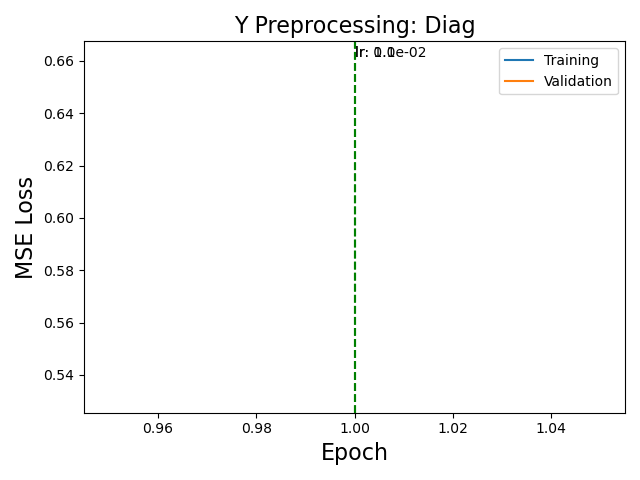
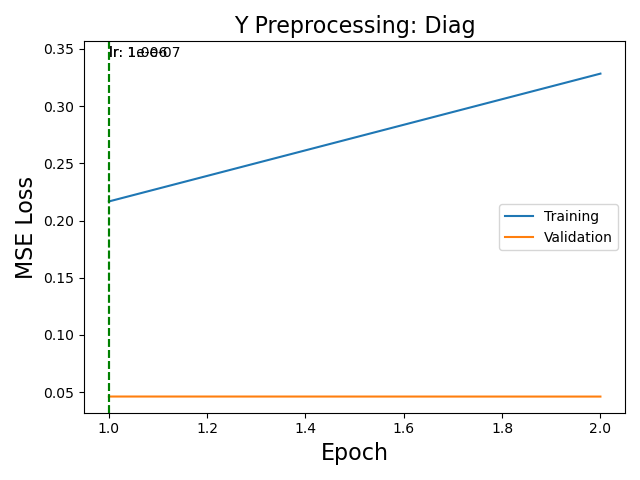
updates

diff --git a/neural_net_utils/core_test_train.py b/neural_net_utils/core_test_train.py
@@ -49,17 +49,22 @@ def core_test_train(model, opt):
             n_epochs = opt.n_epochs, start_epoch = opt.start_epoch, use_parallel = opt.use_parallel,
             scheduler = scheduler, save_mod = opt.save_mod, print_mod = opt.print_mod, verbose = opt.verbose)
 
+    tot_pars = 0
+    for k,p in model.named_parameters():
+        tot_pars += p.numel()
+    print('Total parameters: {}'.format(tot_pars))
     print('Total time: {}'.format(time.time() - t0))
-    print('Final val loss: {}'.format(val_loss_arr[-1]))
+    print('Final val loss: {}\n'.format(val_loss_arr[-1]))
 
-    imageSubPath = os.path.join('images', opt.ofile)
-    if not os.path.exists(imageSubPath):
-        os.mkdir(imageSubPath, mode = 0o755)
+    if opt.plot:
+        imageSubPath = os.path.join('images', opt.ofile)
+        if not os.path.exists(imageSubPath):
+            os.mkdir(imageSubPath, mode = 0o755)
 
-    imagePath = os.path.join(imageSubPath, 'train_val_loss.png')
-    plotModelFromArrays(train_loss_arr, val_loss_arr, imagePath, opt)
+        imagePath = os.path.join(imageSubPath, 'train_val_loss.png')
+        plotModelFromArrays(train_loss_arr, val_loss_arr, imagePath, opt)
 
-    plotting_script(model, opt)
+        plotting_script(model, opt)
 
 def train(train_loader, val_dataloader, model, optimizer, criterion, device, save_location,
         n_epochs, start_epoch, use_parallel, scheduler, save_mod, print_mod, verbose):
@@ -76,11 +81,18 @@ def train(train_loader, val_dataloader, model, optimizer, criterion, device, sav
             x = x.to(device)
             optimizer.zero_grad()
             yhat = model(x)
+            if verbose:
+                print('yhat', yhat)
+                print('y', y)
             y = y.to(device)
             loss = criterion(yhat, y)
             avg_loss += loss.item()
             loss.backward()
             optimizer.step()
+            if verbose:
+                for k,p in model.named_parameters():
+                    print(k, ',', p.shape)
+                    print(p.grad)
         avg_loss /= (t+1)
         train_loss.append(avg_loss)
 

diff --git a/UNet.py b/UNet.py
@@ -3,7 +3,7 @@ import torch.nn as nn
 import torch.nn.functional as F
 from neural_net_utils.networks import UNet
 from neural_net_utils.dataset_classes import Sequences2Contacts
-from neural_net_utils.utils import argparseSetup
+from neural_net_utils.utils import argparseSetup, str2list
 from neural_net_utils.core_test_train import core_test_train
 import numpy as np
 import matplotlib.pyplot as plt
@@ -13,7 +13,34 @@ import argparse
 
 def main():
     opt = argparseSetup()
+    opt.mode = 'debugging'
+    if opt.mode == 'debugging':
+        # Preprocessing
+        opt.toxx = True
+        opt.x_reshape = False
+
+        # architecture
+        opt.k=2
+        opt.n=1024
+        opt.y_preprocessing='diag'
+        opt.y_norm='batch'
+        opt.nf = 8
+
+        # hyperparameters
+        opt.n_epochs=3
+        opt.lr=0.1
+        opt.batch_size=4
+        opt.numWorkers=4
+        opt.milestones=str2list('1')
+        opt.gamma=0.1
+
+        # other
+        opt.verbose = True
+        opt.plot = True
+        opt.data_folder = 'dataset_04_18_21'
+        opt.ofile = 'model'
     print(opt)
+
 
     if opt.loss == 'cross_entropy':
         assert opt.y_preprocessing == 'prcnt', 'must use percentile preprocessing with cross entropy'

diff --git a/neural_net_utils/networks.py b/neural_net_utils/networks.py
@@ -122,13 +122,13 @@ class DeepC(nn.Module):
         assert len(kernel_w_list) == len(hidden_sizes_list), "length of kernel_w_list ({}) and hidden_sizes_list ({}) must match".format(len(kernel_w_list), len(hidden_sizes_list))
         for kernel_w, output_size in zip(kernel_w_list, hidden_sizes_list):
             model.append(ConvBlock(input_size, output_size, kernel_w, padding = kernel_w//2,
-                                    activation = 'relu', dropout = 'drop', dropout_p = 0.2, conv1d = True))
+                                    activation = 'prelu', dropout = 'drop', dropout_p = 0.2, conv1d = True))
             input_size = output_size
 
         # Diaated Convolution
-        for dilation in dilation_list:
-            model.append(ConvBlock(input_size, input_size, 3, padding = dilation,
-                                    activation = 'gated', dilation = dilation, residual = True, conv1d = True))
+        # for dilation in dilation_list:
+        #     model.append(ConvBlock(input_size, input_size, 3, padding = dilation,
+        #                             activation = 'gated', dilation = dilation, residual = True, conv1d = True))
 
         self.model = nn.Sequential(*model)
 

diff --git a/DeepC.py b/DeepC.py
@@ -8,6 +8,7 @@ from neural_net_utils.core_test_train import core_test_train
 
 def main():
     opt = argparseSetup()
+    opt.mode = 'debugging'
     if opt.mode == 'debugging':
         # architecture
         opt.k=2
@@ -17,16 +18,18 @@ def main():
         opt.kernel_w_list=str2list('5-5-5')
         opt.hidden_sizes_list=str2list('32-64-96')
         opt.dilation_list=str2list('2-4-8-16-32-64-128')
+        opt.out_act=nn.ReLU(True)
 
         # hyperparameters
-        opt.n_epochs=1
-        opt.lr=0.1
+        opt.n_epochs=2
+        opt.lr=1e-6
         opt.batch_size=4
         opt.numWorkers=4
         opt.milestones=str2list('1')
         opt.gamma=0.1
 
         # other
+        opt.verbose = True
         opt.plot = True
         opt.data_folder = 'dataset_04_18_21'
         opt.ofile = 'model'

diff --git a/Akita.py b/Akita.py
@@ -8,6 +8,7 @@ from neural_net_utils.core_test_train import core_test_train
 
 def main():
     opt = argparseSetup()
+    opt.mode = 'debugging'
     if opt.mode == 'debugging':
         # architecture
         opt.k=2
@@ -21,7 +22,7 @@ def main():
         opt.dilation_list_head=str2list('2-4-8-16-32-64-128')
 
         # hyperparameters
-        opt.n_epochs=2
+        opt.n_epochs=1
         opt.lr=0.1
         opt.batch_size=4
         opt.numWorkers=4

diff --git a/neural_net_utils/plotting_functions.py b/neural_net_utils/plotting_functions.py
@@ -474,8 +474,7 @@ def plotting_script(model, opt, load = False):
     plotPerClassAccuracy(val_dataloader, model, opt, imagePath)
     print()
 
-    if opt.plot:
-        plotPredictions(val_dataloader, model, opt)
+    plotPredictions(val_dataloader, model, opt)
     print('\n'*3)
 
 def main():
